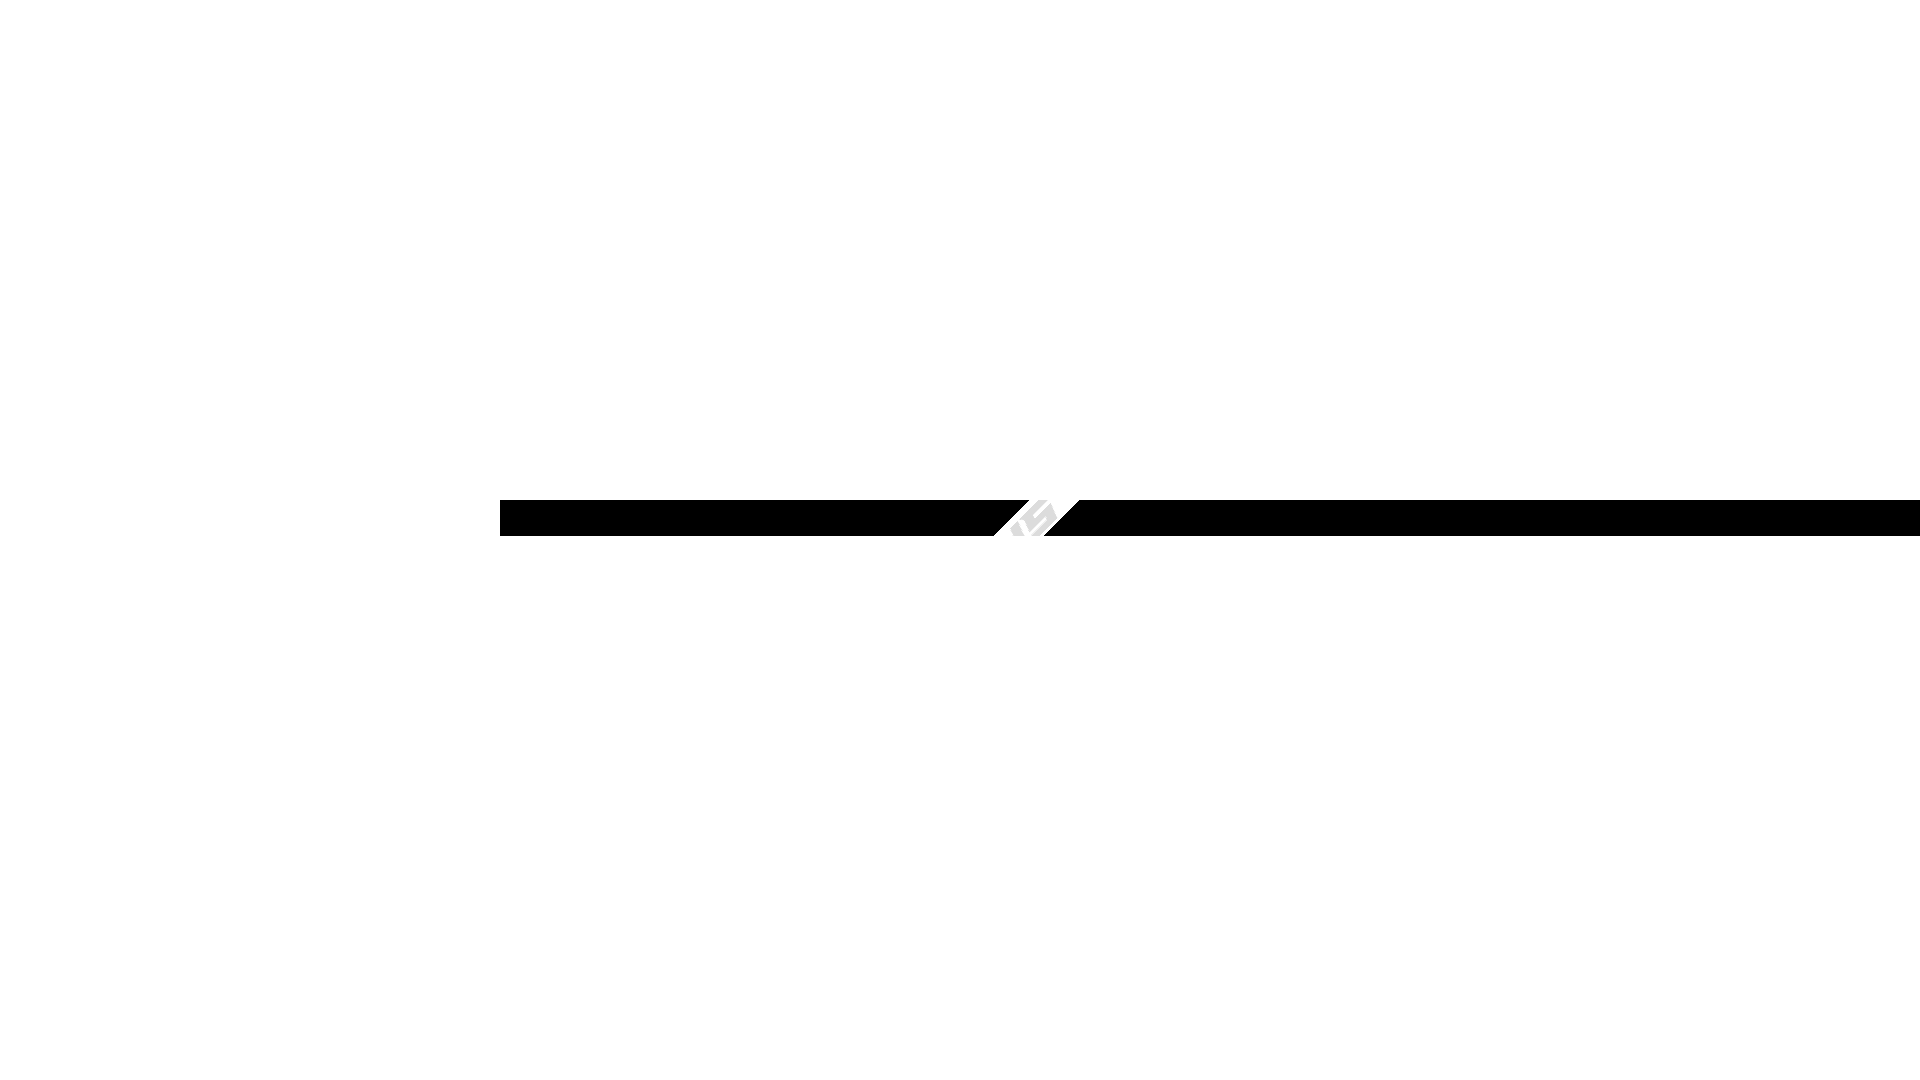
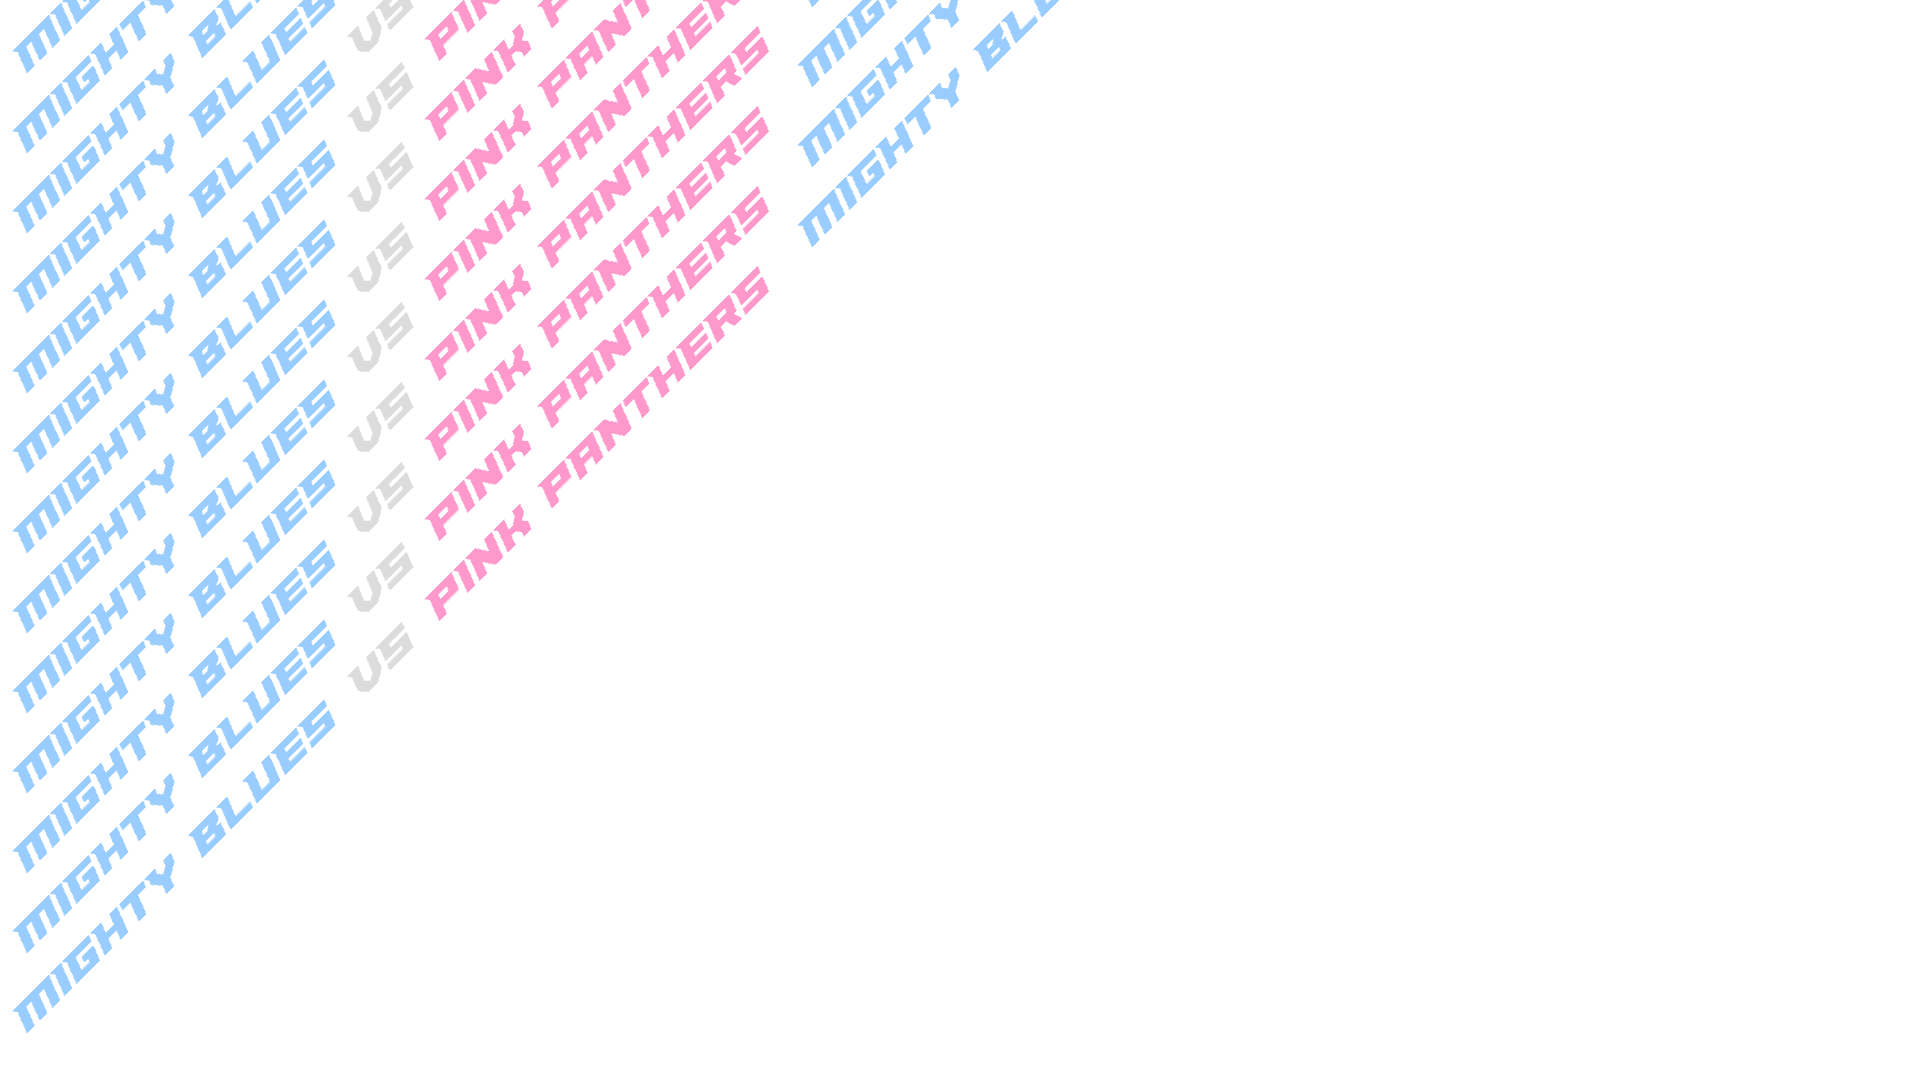
Basic diagonal text

Changed region(s): [[0.0, 0.0, 1.0, 0.9472]]

diff --git a/A51GIFProducer/assemble_teams.py b/A51GIFProducer/assemble_teams.py
@@ -2,36 +2,64 @@ from ImageManager import  createTeamTextImage, ExportGif
 from PIL import Image, ImageDraw, ImageFont
 import os
 from colors import bcolors
+from math import sqrt
 
 CANVAS_SIZE = (1920, 1080)
 RESOURCE_DIR = os.path.abspath(os.getcwd() + "\\resources")
 TEAMTEXT_DIR = os.path.abspath(os.getcwd() + "\\TeamTextOut")
 
 
+def util_reletiveToAbsCords(cords, teamTextImage):
+    return (cords[0], cords[1] - teamTextImage.size[1])
+
+
+def util_drawLine(startCoords, main, teamTextImage):
+    teamText_start = startCoords
+    teamText_end = [teamText_start[0] + teamTextImage.size[0], teamText_start[1] - teamTextImage.size[1]]
+
+    while teamText_start[0] < CANVAS_SIZE[0] and teamText_start[1] < CANVAS_SIZE[1]:
+        if teamText_end[0] < 0 and teamText_end[1] < 0:
+            continue
+        pasteCords = util_reletiveToAbsCords(teamText_start, teamTextImage)
+        main.paste(teamTextImage, pasteCords, mask=teamTextImage)
+        # move the start to the next location
+        teamText_start = teamText_end
+        teamText_end = [teamText_start[0] + teamTextImage.size[0], teamText_start[1] - teamTextImage.size[1]]
+    return main, teamTextImage
+
+
 def RotatedSliderAnimation(speed, teamList, saveImages=False):
-    # starting from 0,0:
-    # draw text image on canvas, rotated starting at 0,0
-    # if the image furthest end pos not on canvas skip to next line until start pos not on canvas
+
+    ROTATION = 45
+    SPACING_VERTICAL = 80
+    ALPHA = 0
+
     main = Image.new('RGB', (1920,1080), color='white')
-    tmp = Image.open(f"{TEAMTEXT_DIR}\\temp.png", "r")
+    rawRGB = Image.open(f"{TEAMTEXT_DIR}\\temp.png", "r")
+    teamTextImage = rawRGB.convert("RGBA")
+    # rotate teamTextImage
+    teamTextImage = teamTextImage.rotate(ROTATION, expand=1)
+    # Make any black pixels transparent
+    newImage = []
+    for item in teamTextImage.getdata():
+        if item[:3] == (0, 0, 0):
+            newImage.append((0, 0, 0, 0))
+        else:
+            newImage.append(item)
+    teamTextImage.putdata(newImage)
 
-    # refactor so they image does not need to be saved (image obj as param)
-    # https://stackoverflow.com/questions/5252170/specify-image-filling-color-when-rotating-in-python-with-pil-and-setting-expand
+    currPos = [0, 0] 
+    #xFlip = True
+    cPos_x1 = 0
+    cPos_x2 = 0
+    while currPos[1] <= CANVAS_SIZE[1]*2:
+        #if xFlip:
+        #    oldCurrPos = currPos
+        #    currPos[0] -= (sqrt(teamTextImage.size[0]**2 + teamTextImage.size[1]**2))//2
+        main, teamTextImage = util_drawLine(currPos, main, teamTextImage)
+        currPos[1] += SPACING_VERTICAL
+        print(currPos)
 
-
-    teamTextImage = tmp.rotate(45)
-
-    currPosRow = [500, 500]
-    currPosLine = currPosRow
-    print(f"row:{currPosRow}, line: {currPosLine}")
-    for i in range(10):
-        currPosLine = currPosRow
-        # draw a line
-        while currPosLine[0] < CANVAS_SIZE[0] and currPosLine[1] < CANVAS_SIZE[1]:
-            main.paste(teamTextImage, (currPosLine[0], currPosLine[1]))
-            print(f"row:{currPosRow}, line: {currPosLine}")
-            currPosLine[0] += teamTextImage.size[0]
-        currPosRow[1] += teamTextImage.size[1]
     print(f"Saved as {os.getcwd()}\\TeamTextOut.png")
     main.save(os.getcwd() + "\\TeamTextOut.png")
     
